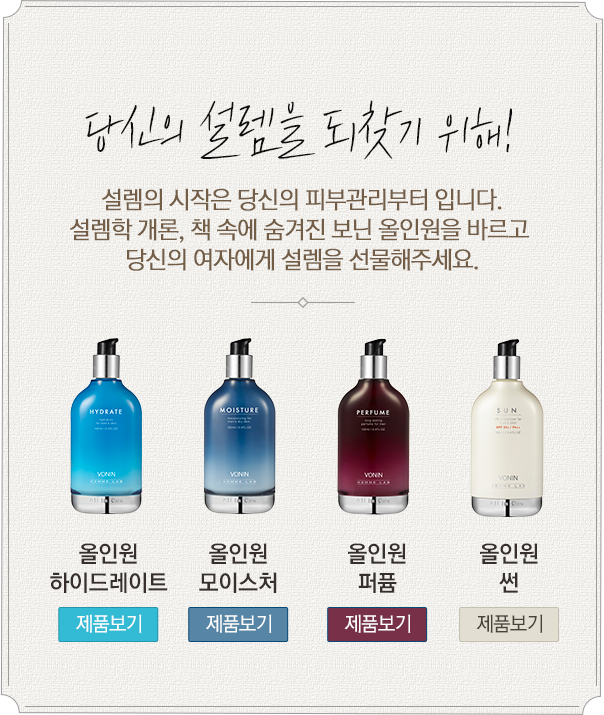
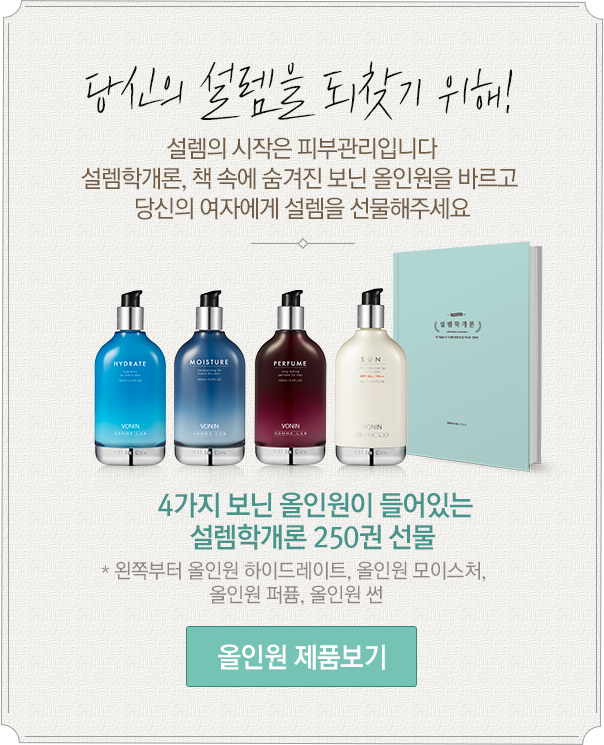
업데이트

diff --git a/PC/popup_gift.html b/PC/popup_gift.html
@@ -26,10 +26,7 @@
             </div>
             <div class="block_content">
             	<div class="inner">
-                    <a href="#" target="_blank" class="pro_1"><img src="images/popup/btn_p_1.png" /></a>
-                    <a href="#" target="_blank" class="pro_2"><img src="images/popup/btn_p_2.png" /></a>
-                    <a href="#" target="_blank" class="pro_3"><img src="images/popup/btn_p_3.png" /></a>
-                    <a href="#" target="_blank" class="pro_4"><img src="images/popup/btn_p_4.png" /></a>
+                    <a href="http://www.vonin.co.kr/product/list.jsp?cid1=1" target="_blank" class="pro_1"><img src="images/popup/btn_all.png" /></a>
                 </div><!--inner-->
             </div>
         </div>

diff --git a/PC/css/style_yang.css b/PC/css/style_yang.css
@@ -513,26 +513,19 @@ body.sub2{
 .popup_wrap .p_position.p_mid.gift{
 	position:relative;
 	width:670px;
-	height:560px;
+	height:610px;
 	background:url(../images/popup/bg_gift.png) no-repeat top left;
 }
 .popup_wrap .p_position.p_mid.gift .block_content a{
 	display:block;
 	position:absolute;
-	top:460px;
+	bottom:50px;
 }
 .popup_wrap .p_position.p_mid.gift .block_content a.pro_1{
-	left:73px;
+	left:50%;
+	margin-left:-100px;
 }
-.popup_wrap .p_position.p_mid.gift .block_content a.pro_2{
-	left:210px;
-}
-.popup_wrap .p_position.p_mid.gift .block_content a.pro_3{
-	left:345px;
-}
-.popup_wrap .p_position.p_mid.gift .block_content a.pro_4{
-	left:475px;
-}
+
 .popup_wrap .p_position.p_mid.small{
 	position:relative;
 	width:500px;

diff --git a/MOBILE/m_popup_product.html b/MOBILE/m_popup_product.html
@@ -21,10 +21,7 @@ initial-scale=1.0, maximum-scale=3.0"/>
                 <a href="#" class="btn_close"><img src="images/popup/btn_close.png" /></a>
             </div>
             <div class="block_content">
-            	<a href="#" class="btn_p1">img</a>
-            	<a href="#" class="btn_p2">img</a>
-            	<a href="#" class="btn_p3">img</a>
-            	<a href="#" class="btn_p4">img</a>
+            	<a href="http://vonin.co.kr/m/product/list.jsp?typeid=BE" class="btn_p1" target="_blank">img</a>
                 
             	<div><img src="images/popup/bg_product.png" class="pop_img" /></div>
             </div>

diff --git a/MOBILE/css/style.css b/MOBILE/css/style.css
@@ -380,16 +380,11 @@ body.menu{
 
 
 .popup_wrap .p_mid.p_position.product .block_content a.btn_p1{
-	left:10%;
-}
-.popup_wrap .p_mid.p_position.product .block_content a.btn_p2{
-	left:31%;
-}
-.popup_wrap .p_mid.p_position.product .block_content a.btn_p3{
-	left:54%;
-}
-.popup_wrap .p_mid.p_position.product .block_content a.btn_p4{
-	left:76%;
+	width:200px;
+	height:50px;
+	left:50%;
+	margin-left:-100px;
+	bottom:30px;
 }
 
 .popup_wrap .p_mid.p_position.movie .block_content{
